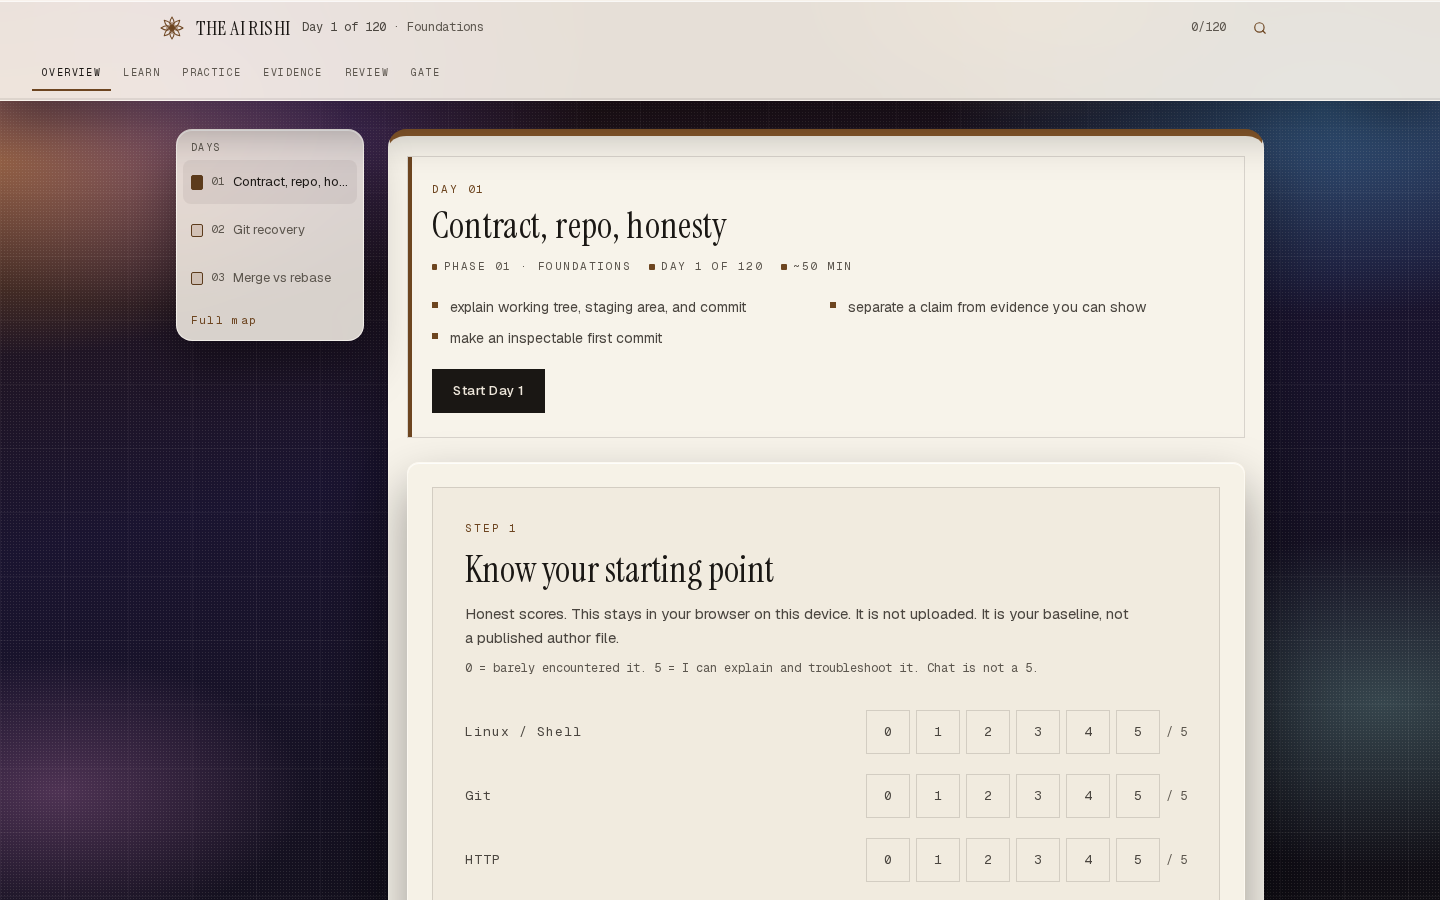
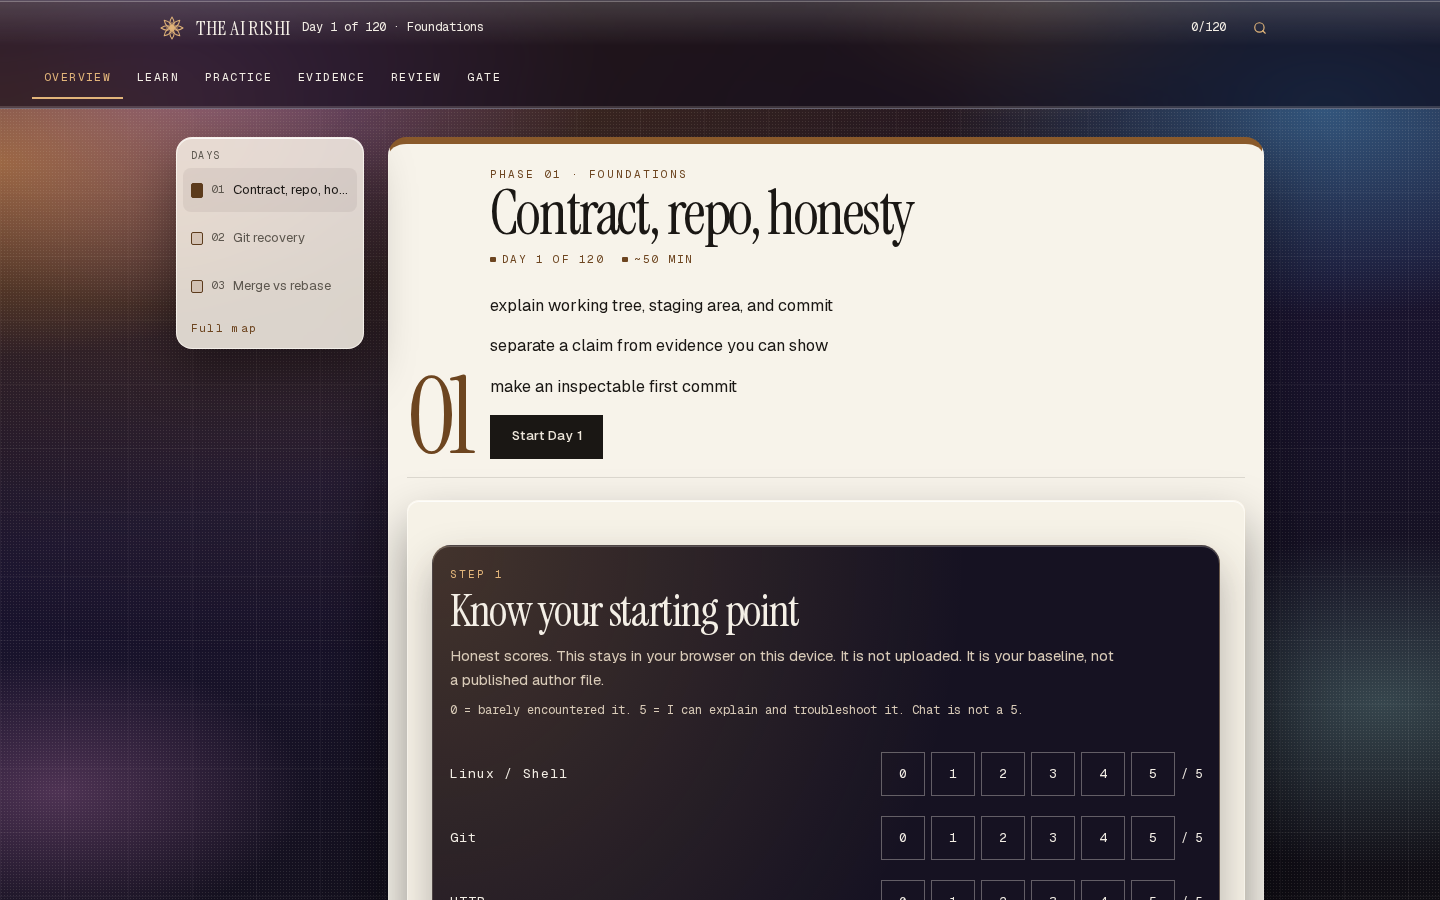
feat(learn): make the lesson a chapter of the same world
The day opens with a large numeral and a dark glass step bar. The baseline is an instrument on the paper, and a slow light drift moves only when motion is allowed.

diff --git a/app/world.css b/app/world.css
@@ -712,6 +712,35 @@ body.site-ground::before {
   z-index: 1;
 }
 
+@media (prefers-reduced-motion: no-preference) {
+  body.site-ground::after {
+    content: "";
+    position: fixed;
+    width: 140%;
+    height: 140%;
+    left: -20%;
+    top: -20%;
+    z-index: 0;
+    pointer-events: none;
+    background: radial-gradient(ellipse at 28% 18%, rgba(226, 160, 70, 0.2), transparent 42%);
+    animation: field-drift 22s ease-in-out infinite alternate;
+  }
+
+  .forge-object .forge-schematic {
+    animation: orbit-breathe 16s ease-in-out infinite alternate;
+  }
+}
+
+@keyframes field-drift {
+  from { transform: translate3d(0, 0, 0); }
+  to { transform: translate3d(6%, 4%, 0); }
+}
+
+@keyframes orbit-breathe {
+  from { transform: perspective(1100px) rotateY(-8deg) rotateX(5deg); }
+  to { transform: perspective(1100px) rotateY(-3deg) rotateX(2deg); }
+}
+
 .site-shell,
 [data-tone],
 main.focus-bay,
@@ -1156,6 +1185,183 @@ main.focus-bay #main-content {
   border-top: 7px solid var(--phase-pigment, #c4843c);
 }
 
+/* Lesson is a chapter on paper, with the same night chrome as the rest of the site. */
+.lesson-mast {
+  display: grid;
+  grid-template-columns: auto minmax(0, 1fr);
+  gap: 0.35rem 1.25rem;
+  align-items: end;
+  margin: 0 0 1.4rem;
+  padding: 0.15rem 0 1.15rem;
+  border-bottom: 1px solid rgba(26, 23, 20, 0.12);
+  color: #1a1714;
+}
+
+.lesson-day {
+  margin: 0;
+  color: #6d4520;
+  font-family: var(--font-serif);
+  font-size: clamp(4rem, 10vw, 6.6rem);
+  font-weight: 400;
+  line-height: 0.78;
+  letter-spacing: -0.06em;
+}
+
+.lesson-mast .kicker,
+.lesson-mast .stat-line {
+  color: #6d4520;
+}
+
+.lesson-mast h1 {
+  margin: 0.15rem 0 0;
+  color: #1a1714;
+  font-family: var(--font-serif);
+  font-size: clamp(2.3rem, 4.6vw, 3.8rem);
+  font-weight: 400;
+  line-height: 0.92;
+  letter-spacing: -0.04em;
+}
+
+.lesson-mast .stat-line {
+  margin-top: 0.55rem;
+}
+
+.lesson-mast ul {
+  display: grid;
+  gap: 0.35rem;
+  margin: 0.9rem 0 0;
+  padding: 0;
+  list-style: none;
+}
+
+.lesson-mast li,
+.lesson-lead {
+  max-width: 38rem;
+  margin: 0.7rem 0 0;
+  color: #1a1714;
+  font-size: 1.02rem;
+  line-height: 1.45;
+}
+
+.lesson-actions {
+  display: flex;
+  flex-wrap: wrap;
+  gap: 0.7rem 1rem;
+  align-items: center;
+  margin-top: 1rem;
+}
+
+.workspace-chips a {
+  min-height: 2.75rem;
+  padding: 0.35rem 0.75rem;
+  font-size: 0.72rem;
+  letter-spacing: 0.12em;
+}
+
+.lesson-block {
+  scroll-margin-top: 9rem;
+}
+
+main.focus-bay header.glass-bar {
+  background-color: rgba(16, 14, 28, 0.72);
+  background-image: linear-gradient(180deg, rgba(255, 255, 255, 0.16), rgba(255, 255, 255, 0) 42%);
+  color: #f4efe6;
+  border-color: rgba(220, 230, 255, 0.24);
+  box-shadow: inset 0 1px 0 rgba(255, 255, 255, 0.28);
+  backdrop-filter: var(--glass-filter);
+}
+
+main.focus-bay header.glass-bar :is(a, p, span, button, .text-cream, .text-cream\/35, .text-cream\/38, .text-cream\/40, .text-cream\/50, .text-cream\/55) {
+  color: #f4efe6;
+}
+
+main.focus-bay header.glass-bar :is(.text-gold, .text-gold\/70, .text-gold\/80) {
+  color: #e2b57a;
+}
+
+main.focus-bay header.glass-bar .workspace-chips a[aria-current="location"] {
+  color: #e2b57a;
+  box-shadow: inset 0 -2px 0 #e2b57a;
+}
+
+main.focus-bay header.glass-bar .lesson-meter {
+  background: rgba(244, 239, 230, 0.16);
+}
+
+main.focus-bay header.glass-bar .lesson-meter > span {
+  background: #e2b57a;
+}
+
+.baseline-board {
+  margin-top: 1.25rem;
+  padding: 1.25rem 1.1rem 1.35rem;
+  border-radius: 1.15rem;
+  background-color: #161222;
+  background-image: radial-gradient(ellipse at 0% 0%, rgba(226, 170, 80, 0.22), transparent 48%);
+  color: #f4efe6;
+  border: 1px solid rgba(226, 200, 160, 0.28);
+  box-shadow:
+    inset 0 1px 0 rgba(255, 255, 255, 0.22),
+    0 18px 40px rgba(8, 6, 16, 0.28);
+}
+
+.baseline-board :is(h2, p, label, span) {
+  color: #f4efe6;
+}
+
+.baseline-board .kicker,
+.baseline-board :is(.text-gold, .text-gold\/80) {
+  color: #e2b57a;
+}
+
+.baseline-board :is(.text-cream\/40, .text-cream\/45, .text-cream\/55) {
+  color: #d9cbb8;
+}
+
+.baseline-board h2 {
+  margin-top: 0.35rem;
+  font-family: var(--font-serif);
+  font-size: clamp(2rem, 4vw, 2.8rem);
+  font-weight: 400;
+  line-height: 0.95;
+  letter-spacing: -0.03em;
+}
+
+.baseline-board button[aria-pressed="true"] {
+  background: #e2b57a;
+  color: #1a1714;
+  border-color: #e2b57a;
+}
+
+.baseline-board button[aria-pressed="false"] {
+  background: transparent;
+  color: #f4efe6;
+  border: 1px solid rgba(244, 239, 230, 0.35);
+}
+
+.baseline-board .btn-primary {
+  background-color: #e2b57a;
+  background-image: none;
+  color: #1a1714;
+}
+
+.baseline-board textarea {
+  background-color: #f7f3ea;
+  color: #1a1714;
+  border-color: rgba(247, 243, 234, 0.5);
+}
+
+@media (max-width: 720px) {
+  .lesson-mast {
+    grid-template-columns: 1fr;
+  }
+
+  .workspace-chips {
+    flex-wrap: wrap;
+    overflow: visible;
+  }
+}
+
 .plan-tools,
 .plan-gates,
 .plan-map,
@@ -1413,6 +1619,8 @@ nav[aria-label="Published days"] > div {
   .chapter,
   .forge-world,
   .forge-mast,
+  .forge-object .forge-schematic,
+  body.site-ground::after,
   .command-layer,
   .poster-feature,
   .plan-card {

diff --git a/components/learning/LessonHeader.tsx b/components/learning/LessonHeader.tsx
@@ -36,43 +36,44 @@ export default function LessonHeader({
     : stage;
 
   return (
-    <section className="shift-ticket p-5 sm:p-6">
-      <p className="kicker text-gold/85">{day ? `Day ${String(day).padStart(2, "0")}` : stage}</p>
-      <h1 className="mt-2 font-serif text-[1.75rem] tracking-[0.01em] text-cream sm:text-4xl">{cleanTitle}</h1>
-      <p className="stat-line mt-3">
-        <span>{phaseLabel}</span>
-        {day ? (
-          <span>
-            {formatDayLabel(day)} of {programTotal}
-          </span>
-        ) : null}
-        {estimatedMinutes ? <span>~{estimatedMinutes} min</span> : null}
-      </p>
+    <section className="lesson-mast">
+      {day ? <p className="lesson-day">{String(day).padStart(2, "0")}</p> : null}
+      <div>
+        <p className="kicker">{phaseLabel}</p>
+        <h1>{cleanTitle}</h1>
+        <p className="stat-line">
+          {day ? (
+            <span>
+              {formatDayLabel(day)} of {programTotal}
+            </span>
+          ) : (
+            <span>{stage}</span>
+          )}
+          {estimatedMinutes ? <span>~{estimatedMinutes} min</span> : null}
+        </p>
 
-      {outcomes.length > 0 ? (
-        <ul className="mt-5 grid gap-2 sm:grid-cols-2">
-          {outcomes.slice(0, 3).map((outcome) => (
-            <li key={outcome} className="flex gap-3 text-[14px] leading-relaxed text-cream/70">
-              <span className="mt-1.5 h-1.5 w-1.5 shrink-0 bg-gold" aria-hidden="true" />
-              <span>{outcome}</span>
-            </li>
-          ))}
-        </ul>
-      ) : (
-        <p className="mt-4 max-w-2xl text-[15px] leading-relaxed text-cream/55">{description}</p>
-      )}
+        {outcomes.length > 0 ? (
+          <ul>
+            {outcomes.slice(0, 3).map((outcome) => (
+              <li key={outcome}>{outcome}</li>
+            ))}
+          </ul>
+        ) : (
+          <p className="lesson-lead">{description}</p>
+        )}
 
-      <div className="mt-5 flex flex-col gap-3 sm:flex-row sm:flex-wrap sm:items-center">
-        {startHref ? (
-          <a href={startHref} className="btn-primary btn-block">
-            {day ? `Start ${formatDayLabel(day)}` : "Start"}
-          </a>
-        ) : null}
-        {practiceHref ? (
-          <a href={practiceHref} className="btn-ghost btn-block">
-            Jump to practice
-          </a>
-        ) : null}
+        <div className="lesson-actions">
+          {startHref ? (
+            <a href={startHref} className="btn-primary btn-block">
+              {day ? `Start ${formatDayLabel(day)}` : "Start"}
+            </a>
+          ) : null}
+          {practiceHref ? (
+            <a href={practiceHref} className="btn-ghost btn-block">
+              Jump to practice
+            </a>
+          ) : null}
+        </div>
       </div>
     </section>
   );

diff --git a/components/learning/StartingAssessment.tsx b/components/learning/StartingAssessment.tsx
@@ -145,7 +145,7 @@ export default function StartingAssessment() {
   }
 
   return (
-    <section className="border border-hairline bg-field/30 p-6 sm:p-8">
+    <section className="baseline-board">
       <p className="kicker text-gold/80">Step 1</p>
       <h2 className="mt-3 font-serif text-3xl text-cream sm:text-4xl">Know your starting point</h2>
       <p className="mt-3 max-w-2xl text-[15px] leading-relaxed text-cream/55">
